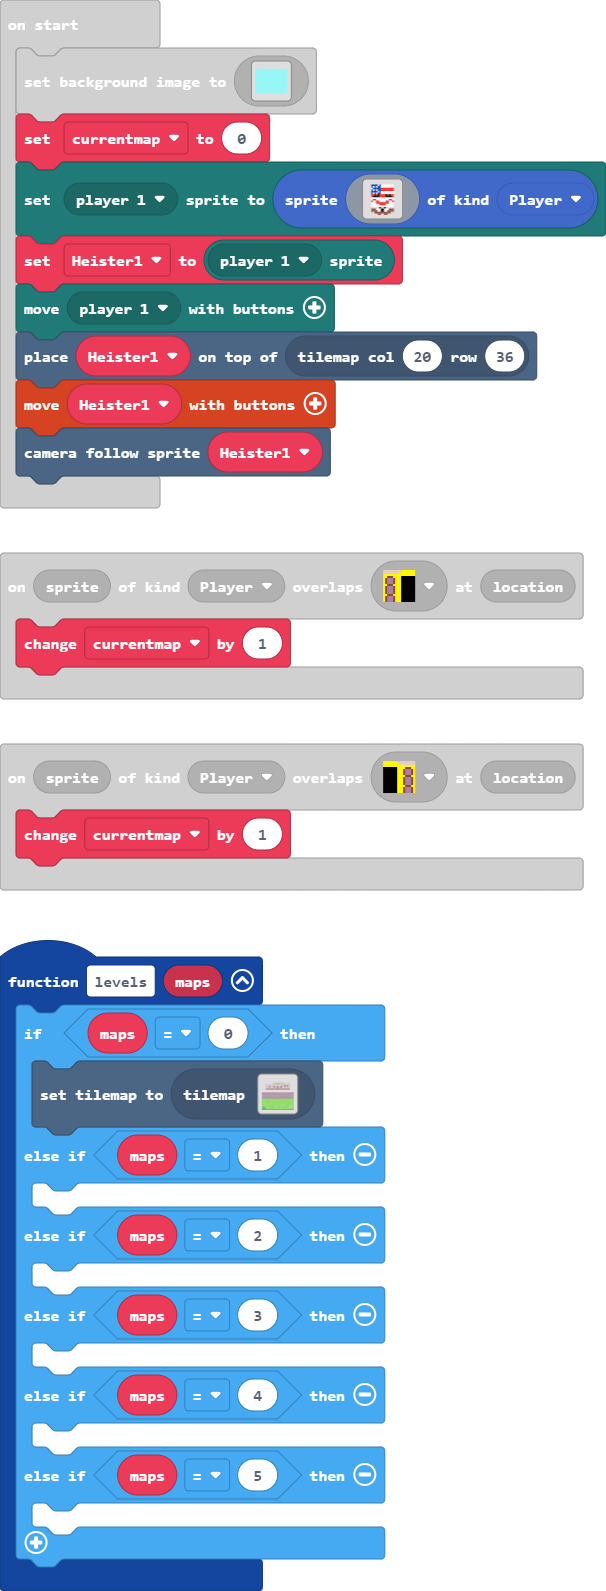
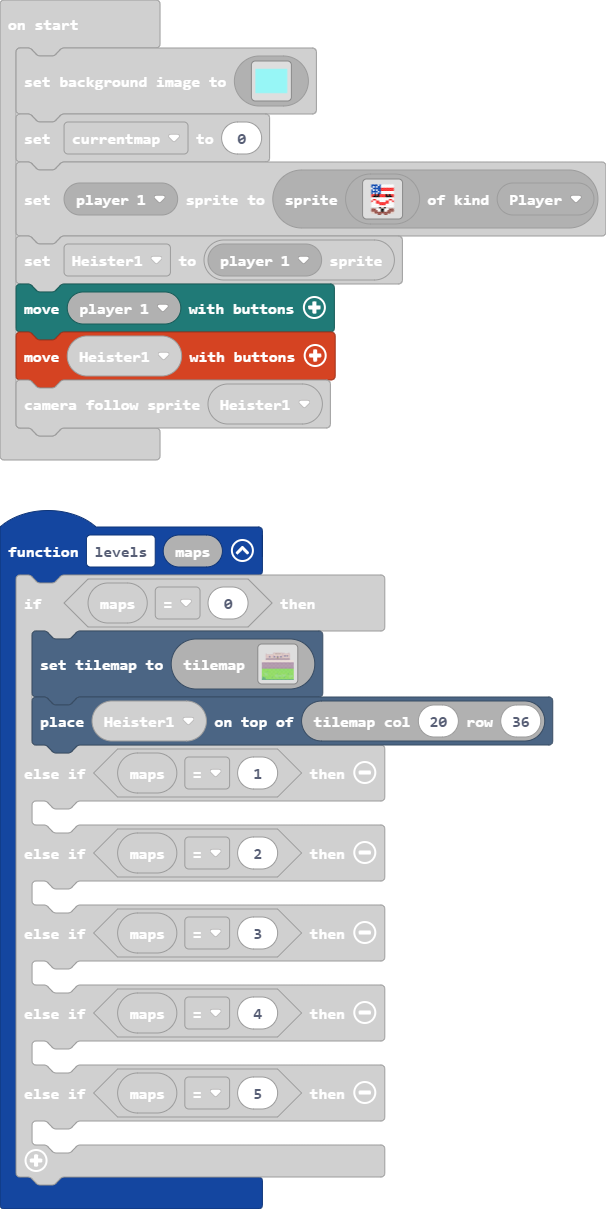
Update main.blocks, main.ts

diff --git a/main.ts b/main.ts
@@ -13,6 +13,7 @@ scene.onOverlapTile(SpriteKind.Player, assets.tile`myTile2`, function (sprite, l
 function levels (maps: number) {
     if (maps == 0) {
         tiles.setCurrentTilemap(tilemap`Prototype_bank_entrance`)
+        tiles.placeOnTile(Heister1, tiles.getTileLocation(20, 36))
     } else if (maps == 1) {
     	
     } else if (maps == 2) {
@@ -34,12 +35,12 @@ controller.player2.onEvent(ControllerEvent.Connected, function () {
 let Player1Health: StatusBarSprite = null
 let Heister2: Sprite = null
 let Loot: Sprite[] = []
+let Heister1: Sprite = null
 scene.setBackgroundImage(assets.image`sky`)
 let currentmap = 0
 mp.setPlayerSprite(mp.playerSelector(mp.PlayerNumber.One), sprites.create(assets.image`Austin`, SpriteKind.Player))
-let Heister1 = mp.getPlayerSprite(mp.playerSelector(mp.PlayerNumber.One))
+Heister1 = mp.getPlayerSprite(mp.playerSelector(mp.PlayerNumber.One))
 mp.moveWithButtons(mp.playerSelector(mp.PlayerNumber.One))
-tiles.placeOnTile(Heister1, tiles.getTileLocation(20, 36))
 controller.moveSprite(Heister1)
 scene.cameraFollowSprite(Heister1)
 forever(function () {
